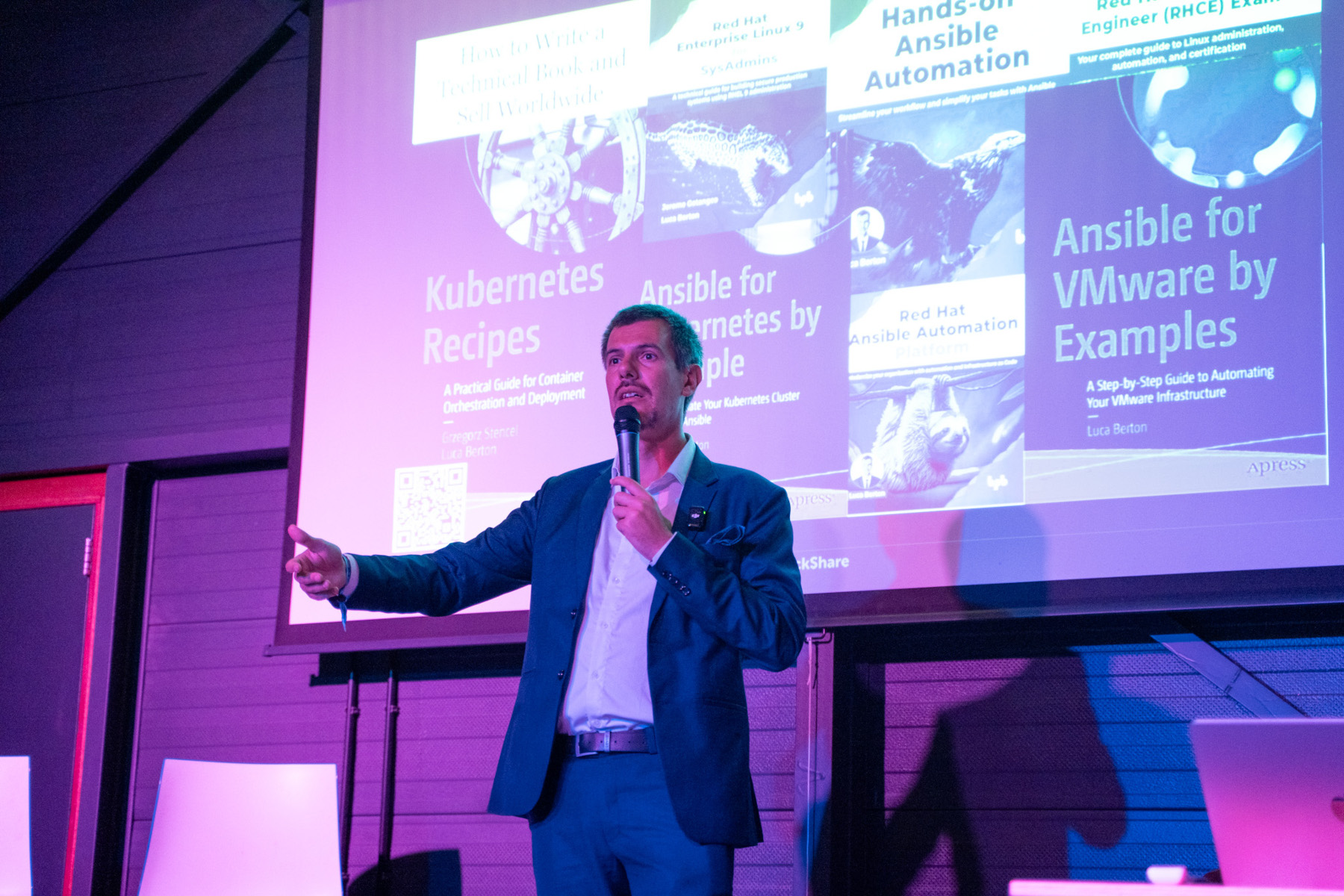
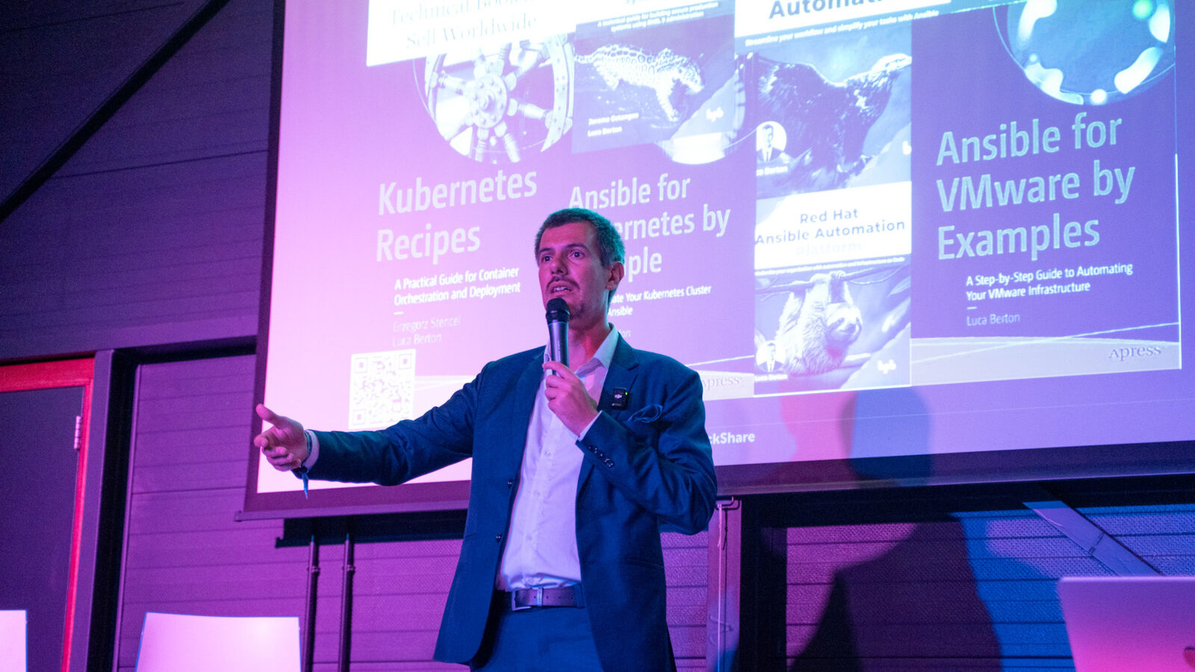
perf(lighthouse): self-host CDN scripts, optimize hero images, fix contrast
- Self-host cookieconsent@3.1.0 and web-vitals@4 to satisfy edge CSP
  (cookie consent banner was broken in production due to CSP blocking
  cdn.jsdelivr.net). Now loaded from /scripts/ via 'self'.
- FikaWorksDay2025.jpg: crop centered to true 16:9 (1600x900) and
  re-encode at q82 (540KB -> 254KB). Fixes Lighthouse aspect-ratio
  mismatch warning and improperly-sized-images.
- luca-hero.jpg: downscale from 1714x2400 to 800x1120 (332KB -> 161KB).
- hero-stage-1/2.jpg: re-encode + add .webp variants for CSS bg.
- Update hero.astro to reference .webp background-images.
- Bump text-gray-400 to text-gray-600 on light backgrounds
  (features service duration, logos sponsor names, pricing plan names).
- Add <link rel=preconnect> for www.google-analytics.com.
- Drop cdn.jsdelivr.net from static/_headers script-src; add 'self'
  to frame-src for Partytown sandbox iframe.
- Add scripts/optimize-hero-images.sh for reproducible re-encoding.
- gitignore .img-originals/ backup folder.

Lighthouse desktop baseline before this commit: P86 A96 BP70 SEO92.
Cloudflare-side follow-ups (not fixable in repo): disable AI Audit
Content-Signal robots.txt injection; remove cdn.jsdelivr.net allowance
from edge CSP transform rule; remove Cloudflare Insights beacon or
add static.cloudflareinsights.com to script-src.

diff --git a/static/scripts/cookieconsent.umd.js b/static/scripts/cookieconsent.umd.js
@@ -1,0 +1,7 @@
+/*!
+* CookieConsent 3.1.0
+* https://github.com/orestbida/cookieconsent
+* Author Orest Bida
+* Released under the MIT License
+*/
+var e,t;e=this,t=function(e){'use strict';const t='opt-in',o='opt-out',n='show--consent',s='show--preferences',a='disable--interaction',c='data-category',r='div',i='button',l='aria-hidden',d='btn-group',f='click',_='data-role',u='consentModal',p='preferencesModal';class g{constructor(){this.t={mode:t,revision:0,autoShow:!0,lazyHtmlGeneration:!0,autoClearCookies:!0,manageScriptTags:!0,hideFromBots:!0,cookie:{name:'cc_cookie',expiresAfterDays:182,domain:'',path:'/',secure:!0,sameSite:'Lax'}},this.o={i:{},l:'',_:{},u:{},p:{},m:[],v:!1,h:null,C:null,S:null,M:'',T:!0,D:!1,k:!1,A:!1,N:!1,H:[],V:!1,j:!0,I:[],L:!1,F:'',P:!1,O:[],R:[],B:[],$:[],G:!1,J:!1,U:!1,q:[],K:[],W:[],X:{},Y:{},Z:{},ee:{},te:{},oe:[]},this.ne={se:{},ae:{}},this.ce={},this.re={ie:'cc:onFirstConsent',le:'cc:onConsent',de:'cc:onChange',fe:'cc:onModalShow',_e:'cc:onModalHide',ue:'cc:onModalReady'}}}const m=new g,b=(e,t)=>e.indexOf(t),v=(e,t)=>-1!==b(e,t),y=e=>Array.isArray(e),h=e=>'string'==typeof e,C=e=>!!e&&'object'==typeof e&&!y(e),w=e=>'function'==typeof e,S=e=>Object.keys(e),x=e=>Array.from(new Set(e)),M=()=>document.activeElement,T=e=>e.preventDefault(),D=(e,t)=>e.querySelectorAll(t),k=e=>e.dispatchEvent(new Event('change')),E=e=>{const t=document.createElement(e);return e===i&&(t.type=e),t},A=(e,t,o)=>e.setAttribute(t,o),N=(e,t,o)=>{e.removeAttribute(o?'data-'+t:t)},H=(e,t,o)=>e.getAttribute(o?'data-'+t:t),V=(e,t)=>e.appendChild(t),j=(e,t)=>e.classList.add(t),I=(e,t)=>j(e,'cm__'+t),L=(e,t)=>j(e,'pm__'+t),F=(e,t)=>e.classList.remove(t),P=e=>{if('object'!=typeof e)return e;if(e instanceof Date)return new Date(e.getTime());let t=Array.isArray(e)?[]:{};for(let o in e){let n=e[o];t[o]=P(n)}return t},O=()=>{const e={},{O:t,X:o,Y:n}=m.o;for(const s of t)e[s]=G(n[s],S(o[s]));return e},R=(e,t)=>dispatchEvent(new CustomEvent(e,{detail:t})),B=(e,t,o,n)=>{e.addEventListener(t,o),n&&m.o.m.push({pe:e,ge:t,me:o})},$=()=>{const e=m.t.cookie.expiresAfterDays;return w(e)?e(m.o.F):e},G=(e,t)=>{const o=e||[],n=t||[];return o.filter((e=>!v(n,e))).concat(n.filter((e=>!v(o,e))))},J=e=>{m.o.R=x(e),m.o.F=(()=>{let e='custom';const{R:t,O:o,B:n}=m.o,s=t.length;return s===o.length?e='all':s===n.length&&(e='necessary'),e})()},U=(e,t,o,n)=>{const s='accept-',{show:a,showPreferences:c,hide:r,hidePreferences:i,acceptCategory:l}=t,d=e||document,_=e=>D(d,`[data-cc="${e}"]`),u=(e,t)=>{T(e),l(t),i(),r()},p=_('show-preferencesModal'),g=_('show-consentModal'),b=_(s+'all'),v=_(s+'necessary'),y=_(s+'custom'),h=m.t.lazyHtmlGeneration;for(const e of p)A(e,'aria-haspopup','dialog'),B(e,f,(e=>{T(e),c()})),h&&(B(e,'mouseenter',(e=>{T(e),m.o.N||o(t,n)}),!0),B(e,'focus',(()=>{m.o.N||o(t,n)})));for(let e of g)A(e,'aria-haspopup','dialog'),B(e,f,(e=>{T(e),a(!0)}),!0);for(let e of b)B(e,f,(e=>{u(e,'all')}),!0);for(let e of y)B(e,f,(e=>{u(e)}),!0);for(let e of v)B(e,f,(e=>{u(e,[])}),!0)},z=(e,t)=>{e&&(t&&(e.tabIndex=-1),e.focus(),t&&e.removeAttribute('tabindex'))},q=(e,t)=>{const o=n=>{n.target.removeEventListener('transitionend',o),'opacity'===n.propertyName&&'1'===getComputedStyle(e).opacity&&z((e=>1===e?m.ne.be:m.ne.ve)(t))};B(e,'transitionend',o)};let K;const Q=e=>{clearTimeout(K),e?j(m.ne.ye,a):K=setTimeout((()=>{F(m.ne.ye,a)}),500)},W=['M 19.5 4.5 L 4.5 19.5 M 4.5 4.501 L 19.5 19.5','M 3.572 13.406 L 8.281 18.115 L 20.428 5.885','M 21.999 6.94 L 11.639 17.18 L 2.001 6.82 '],X=(e=0,t=1.5)=>`<svg viewBox="0 0 24 24" stroke-width="${t}"><path d="${W[e]}"/></svg>`,Y=e=>{const t=m.ne,o=m.o;(e=>{const n=e===t.he,s=o.i.disablePageInteraction?t.ye:n?t.Ce:t.ye;B(s,'keydown',(t=>{if('Tab'!==t.key||!(n?o.k&&!o.A:o.A))return;const s=M(),a=n?o.q:o.K;0!==a.length&&(t.shiftKey?s!==a[0]&&e.contains(s)||(T(t),z(a[1])):s!==a[1]&&e.contains(s)||(T(t),z(a[0])))}),!0)})(e)},Z=['[href]',i,'input','details','[tabindex]'].map((e=>e+':not([tabindex="-1"])')).join(','),ee=e=>{const{o:t,ne:o}=m,n=(e,t)=>{const o=D(e,Z);t[0]=o[0],t[1]=o[o.length-1]};1===e&&t.D&&n(o.he,t.q),2===e&&t.N&&n(o.we,t.K)},te=(e,t,o)=>{const{de:n,le:s,ie:a,_e:c,ue:r,fe:i}=m.ce,l=m.re;if(t){const n={modalName:t};return e===l.fe?w(i)&&i(n):e===l._e?w(c)&&c(n):(n.modal=o,w(r)&&r(n)),R(e,n)}const d={cookie:m.o.p};e===l.ie?w(a)&&a(P(d)):e===l.le?w(s)&&s(P(d)):(d.changedCategories=m.o.I,d.changedServices=m.o.ee,w(n)&&n(P(d))),R(e,P(d))},oe=(e,t)=>{try{return e()}catch(e){return!t&&console.warn('CookieConsent:',e),!1}},ne=e=>{const{Y:t,ee:o,O:n,X:s,oe:a,p:r,I:i}=m.o;for(const e of n){const n=o[e]||t[e]||[];for(const o of n){const n=s[e][o];if(!n)continue;const{onAccept:a,onReject:c}=n;!n.Se&&v(t[e],o)?(n.Se=!0,w(a)&&a()):n.Se&&!v(t[e],o)&&(n.Se=!1,w(c)&&c())}}if(!m.t.manageScriptTags)return;const l=a,d=e||r.categories||[],f=(e,n)=>{if(n>=e.length)return;const s=a[n];if(s.xe)return f(e,n+1);const r=s.Me,l=s.Te,_=s.De,u=v(d,l),p=!!_&&v(t[l],_);if(!_&&!s.ke&&u||!_&&s.ke&&!u&&v(i,l)||_&&!s.ke&&p||_&&s.ke&&!p&&v(o[l]||[],_)){s.xe=!0;const t=H(r,'type',!0);N(r,'type',!!t),N(r,c);let o=H(r,'src',!0);o&&N(r,'src',!0);const a=E('script');a.textContent=r.innerHTML;for(const{nodeName:e}of r.attributes)A(a,e,r[e]||H(r,e));t&&(a.type=t),o?a.src=o:o=r.src;const i=!!o&&(!t||['text/javascript','module'].includes(t));if(i&&(a.onload=a.onerror=()=>{f(e,++n)}),r.replaceWith(a),i)return}f(e,++n)};f(l,0)},se='bottom',ae='left',ce='center',re='right',ie='inline',le='wide',de='pm--',fe=['middle','top',se],_e=[ae,ce,re],ue={box:{Ee:[le,ie],Ae:fe,Ne:_e,He:se,Ve:re},cloud:{Ee:[ie],Ae:fe,Ne:_e,He:se,Ve:ce},bar:{Ee:[ie],Ae:fe.slice(1),Ne:[],He:se,Ve:''}},pe={box:{Ee:[],Ae:[],Ne:[],He:'',Ve:''},bar:{Ee:[le],Ae:[],Ne:[ae,re],He:'',Ve:ae}},ge=e=>{const t=m.o.i.guiOptions,o=t&&t.consentModal,n=t&&t.preferencesModal;0===e&&me(m.ne.he,ue,o,'cm--','box','cm'),1===e&&me(m.ne.we,pe,n,de,'box','pm')},me=(e,t,o,n,s,a)=>{e.className=a;const c=o&&o.layout,r=o&&o.position,i=o&&o.flipButtons,l=!o||!1!==o.equalWeightButtons,d=c&&c.split(' ')||[],f=d[0],_=d[1],u=f in t?f:s,p=t[u],g=v(p.Ee,_)&&_,b=r&&r.split(' ')||[],y=b[0],h=n===de?b[0]:b[1],C=v(p.Ae,y)?y:p.He,w=v(p.Ne,h)?h:p.Ve,S=t=>{t&&j(e,n+t)};S(u),S(g),S(C),S(w),i&&S('flip');const x=a+'__btn--secondary';if('cm'===a){const{je:e,Ie:t}=m.ne;e&&(l?F(e,x):j(e,x)),t&&(l?F(t,x):j(t,x))}else{const{Le:e}=m.ne;e&&(l?F(e,x):j(e,x))}},be=(e,t)=>{const o=m.o,n=m.ne,{hide:s,hidePreferences:a,acceptCategory:c}=e,u=e=>{c(e),a(),s()},g=o.u&&o.u.preferencesModal;if(!g)return;const b=g.title,v=g.closeIconLabel,y=g.acceptAllBtn,w=g.acceptNecessaryBtn,x=g.savePreferencesBtn,M=g.sections||[],T=y||w||x;if(n.Fe)n.Pe=E(r),L(n.Pe,'body');else{n.Fe=E(r),j(n.Fe,'pm-wrapper');const e=E('div');j(e,'pm-overlay'),V(n.Fe,e),B(e,f,a),n.we=E(r),j(n.we,'pm'),A(n.we,'role','dialog'),A(n.we,l,!0),A(n.we,'aria-modal',!0),A(n.we,'aria-labelledby','pm__title'),B(n.ye,'keydown',(e=>{27===e.keyCode&&a()}),!0),n.Oe=E(r),L(n.Oe,'header'),n.Re=E('h2'),L(n.Re,'title'),n.Re.id='pm__title',n.Be=E(i),L(n.Be,'close-btn'),A(n.Be,'aria-label',g.closeIconLabel||''),B(n.Be,f,a),n.$e=E('span'),n.$e.innerHTML=X(),V(n.Be,n.$e),n.Ge=E(r),L(n.Ge,'body'),n.Je=E(r),L(n.Je,'footer');var D=E(r);j(D,'btns');var k=E(r),N=E(r);L(k,d),L(N,d),V(n.Je,k),V(n.Je,N),V(n.Oe,n.Re),V(n.Oe,n.Be),n.ve=E(r),A(n.ve,'tabIndex',-1),V(n.we,n.ve),V(n.we,n.Oe),V(n.we,n.Ge),T&&V(n.we,n.Je),V(n.Fe,n.we)}let H;b&&(n.Re.innerHTML=b,v&&A(n.Be,'aria-label',v)),M.forEach(((e,t)=>{const s=e.title,a=e.description,c=e.linkedCategory,d=c&&o.P[c],_=e.cookieTable,u=_&&_.body,p=_&&_.caption,m=u&&u.length>0,b=!!d,v=b&&o.X[c],y=C(v)&&S(v)||[],w=b&&(!!a||!!m||S(v).length>0);var x=E(r);if(L(x,'section'),w||a){var M=E(r);L(M,'section-desc-wrapper')}let T=y.length;if(w&&T>0){const e=E(r);L(e,'section-services');for(const t of y){const o=v[t],n=o&&o.label||t,s=E(r),a=E(r),i=E(r),l=E(r);L(s,'service'),L(l,'service-title'),L(a,'service-header'),L(i,'service-icon');const f=ve(n,t,d,!0,c);l.innerHTML=n,V(a,i),V(a,l),V(s,a),V(s,f),V(e,s)}V(M,e)}if(s){var D=E(r),k=E(b?i:r);if(L(D,'section-title-wrapper'),L(k,'section-title'),k.innerHTML=s,V(D,k),b){const e=E('span');e.innerHTML=X(2,3.5),L(e,'section-arrow'),V(D,e),x.className+='--toggle';const t=ve(s,c,d);let o=g.serviceCounterLabel;if(T>0&&h(o)){let e=E('span');L(e,'badge'),L(e,'service-counter'),A(e,l,!0),A(e,'data-servicecounter',T),o&&(o=o.split('|'),o=o.length>1&&T>1?o[1]:o[0],A(e,'data-counterlabel',o)),e.innerHTML=T+(o?' '+o:''),V(k,e)}if(w){L(x,'section--expandable');var N=c+'-desc';A(k,'aria-expanded',!1),A(k,'aria-controls',N)}V(D,t)}else A(k,'role','heading'),A(k,'aria-level','3');V(x,D)}if(a){var I=E('p');L(I,'section-desc'),I.innerHTML=a,V(M,I)}if(w&&(A(M,l,'true'),M.id=N,((e,t,o)=>{B(k,f,(()=>{t.classList.contains('is-expanded')?(F(t,'is-expanded'),A(o,'aria-expanded','false'),A(e,l,'true')):(j(t,'is-expanded'),A(o,'aria-expanded','true'),A(e,l,'false'))}))})(M,x,k),m)){const e=E('table'),o=E('thead'),s=E('tbody');if(p){const t=E('caption');L(t,'table-caption'),t.innerHTML=p,e.appendChild(t)}L(e,'section-table'),L(o,'table-head'),L(s,'table-body');const a=_.headers,c=S(a),i=n.Ue.createDocumentFragment(),l=E('tr');for(const e of c){const o=a[e],n=E('th');n.id='cc__row-'+o+t,A(n,'scope','col'),L(n,'table-th'),n.innerHTML=o,V(i,n)}V(l,i),V(o,l);const d=n.Ue.createDocumentFragment();for(const e of u){const o=E('tr');L(o,'table-tr');for(const n of c){const s=a[n],c=e[n],i=E('td'),l=E(r);L(i,'table-td'),A(i,'data-column',s),A(i,'headers','cc__row-'+s+t),l.insertAdjacentHTML('beforeend',c),V(i,l),V(o,i)}V(d,o)}V(s,d),V(e,o),V(e,s),V(M,e)}(w||a)&&V(x,M);const P=n.Pe||n.Ge;b?(H||(H=E(r),L(H,'section-toggles')),H.appendChild(x)):H=null,V(P,H||x)})),y&&(n.ze||(n.ze=E(i),L(n.ze,'btn'),A(n.ze,_,'all'),V(k,n.ze),B(n.ze,f,(()=>u('all')))),n.ze.innerHTML=y),w&&(n.Le||(n.Le=E(i),L(n.Le,'btn'),A(n.Le,_,'necessary'),V(k,n.Le),B(n.Le,f,(()=>u([])))),n.Le.innerHTML=w),x&&(n.qe||(n.qe=E(i),L(n.qe,'btn'),L(n.qe,'btn--secondary'),A(n.qe,_,'save'),V(N,n.qe),B(n.qe,f,(()=>u()))),n.qe.innerHTML=x),n.Pe&&(n.we.replaceChild(n.Pe,n.Ge),n.Ge=n.Pe),ge(1),o.N||(o.N=!0,te(m.re.ue,p,n.we),t(e),V(n.Ce,n.Fe),Y(n.we),setTimeout((()=>j(n.Fe,'cc--anim')),100)),ee(2)};function ve(e,t,o,n,s){const a=m.o,r=m.ne,i=E('label'),d=E('input'),_=E('span'),u=E('span'),p=E('span'),g=E('span'),b=E('span');if(g.innerHTML=X(1,3),b.innerHTML=X(0,3),d.type='checkbox',j(i,'section__toggle-wrapper'),j(d,'section__toggle'),j(g,'toggle__icon-on'),j(b,'toggle__icon-off'),j(_,'toggle__icon'),j(u,'toggle__icon-circle'),j(p,'toggle__label'),A(_,l,'true'),n?(j(i,'toggle-service'),A(d,c,s),r.ae[s][t]=d):r.se[t]=d,n?(e=>{B(d,'change',(()=>{const t=r.ae[e],o=r.se[e];a.Z[e]=[];for(let o in t){const n=t[o];n.checked&&a.Z[e].push(n.value)}o.checked=a.Z[e].length>0}))})(s):(e=>{B(d,f,(()=>{const t=r.ae[e],o=d.checked;a.Z[e]=[];for(let n in t)t[n].checked=o,o&&a.Z[e].push(n)}))})(t),d.value=t,p.textContent=e.replace(/<.*>.*<\/.*>/gm,''),V(u,b),V(u,g),V(_,u),a.T)(o.readOnly||o.enabled)&&(d.checked=!0);else if(n){const e=a.Y[s];d.checked=o.readOnly||v(e,t)}else v(a.R,t)&&(d.checked=!0);return o.readOnly&&(d.disabled=!0),V(i,d),V(i,_),V(i,p),i}const ye=()=>{const e=E('span');return m.ne.Ke||(m.ne.Ke=e),e},he=(e,t)=>{const o=m.o,n=m.ne,{hide:s,showPreferences:a,acceptCategory:c}=e,p=o.u&&o.u.consentModal;if(!p)return;const g=p.acceptAllBtn,b=p.acceptNecessaryBtn,v=p.showPreferencesBtn,y=p.closeIconLabel,h=p.footer,C=p.label,w=p.title,S=e=>{s(),c(e)};if(!n.Qe){n.Qe=E(r),n.he=E(r),n.We=E(r),n.Xe=E(r),n.Ye=E(r),j(n.Qe,'cm-wrapper'),j(n.he,'cm'),I(n.We,'body'),I(n.Xe,'texts'),I(n.Ye,'btns'),A(n.he,'role','dialog'),A(n.he,'aria-modal','true'),A(n.he,l,'false'),A(n.he,'aria-describedby','cm__desc'),C?A(n.he,'aria-label',C):w&&A(n.he,'aria-labelledby','cm__title');const e='box',t=o.i.guiOptions,s=t&&t.consentModal,a=(s&&s.layout||e).split(' ')[0]===e;w&&y&&a&&(n.Ie||(n.Ie=E(i),n.Ie.innerHTML=X(),I(n.Ie,'btn'),I(n.Ie,'btn--close'),B(n.Ie,f,(()=>{S([])})),V(n.We,n.Ie)),A(n.Ie,'aria-label',y)),V(n.We,n.Xe),(g||b||v)&&V(n.We,n.Ye),n.be=E(r),A(n.be,'tabIndex',-1),V(n.he,n.be),V(n.he,n.We),V(n.Qe,n.he)}w&&(n.Ze||(n.Ze=E('h2'),n.Ze.className=n.Ze.id='cm__title',V(n.Xe,n.Ze)),n.Ze.innerHTML=w);let x=p.description;if(x&&(o.V&&(x=x.replace('{{revisionMessage}}',o.j?'':p.revisionMessage||'')),n.et||(n.et=E('p'),n.et.className=n.et.id='cm__desc',V(n.Xe,n.et)),n.et.innerHTML=x),g&&(n.tt||(n.tt=E(i),V(n.tt,ye()),I(n.tt,'btn'),A(n.tt,_,'all'),B(n.tt,f,(()=>{S('all')}))),n.tt.firstElementChild.innerHTML=g),b&&(n.je||(n.je=E(i),V(n.je,ye()),I(n.je,'btn'),A(n.je,_,'necessary'),B(n.je,f,(()=>{S([])}))),n.je.firstElementChild.innerHTML=b),v&&(n.ot||(n.ot=E(i),V(n.ot,ye()),I(n.ot,'btn'),I(n.ot,'btn--secondary'),A(n.ot,_,'show'),B(n.ot,'mouseenter',(()=>{o.N||be(e,t)})),B(n.ot,f,a)),n.ot.firstElementChild.innerHTML=v),n.nt||(n.nt=E(r),I(n.nt,d),g&&V(n.nt,n.tt),b&&V(n.nt,n.je),(g||b)&&V(n.We,n.nt),V(n.Ye,n.nt)),n.ot&&!n.st&&(n.st=E(r),n.je&&n.tt?(I(n.st,d),V(n.st,n.ot),V(n.Ye,n.st)):(V(n.nt,n.ot),I(n.nt,d+'--uneven'))),h){if(!n.ct){let e=E(r),t=E(r);n.ct=E(r),I(e,'footer'),I(t,'links'),I(n.ct,'link-group'),V(t,n.ct),V(e,t),V(n.he,e)}n.ct.innerHTML=h}ge(0),o.D||(o.D=!0,te(m.re.ue,u,n.he),t(e),V(n.Ce,n.Qe),Y(n.he),setTimeout((()=>j(n.Qe,'cc--anim')),100)),ee(1),U(n.We,e,be,t)},Ce=e=>{if(!h(e))return null;if(e in m.o._)return e;let t=e.slice(0,2);return t in m.o._?t:null},we=()=>m.o.l||m.o.i.language.default,Se=e=>{e&&(m.o.l=e)},xe=async e=>{const t=m.o;let o=Ce(e)?e:we(),n=t._[o];if(h(n)?n=await(async e=>{try{const t=await fetch(e);return await t.json()}catch(e){return console.error(e),!1}})(n):w(n)&&(n=await n()),!n)throw`Could not load translation for the '${o}' language`;return t.u=n,Se(o),!0},Me=()=>{let e=m.o.i.language.rtl,t=m.ne.Ce;e&&t&&(y(e)||(e=[e]),v(e,m.o.l)?j(t,'cc--rtl'):F(t,'cc--rtl'))},Te=()=>{const e=m.ne;if(e.Ce)return;e.Ce=E(r),e.Ce.id='cc-main',e.Ce.setAttribute('data-nosnippet',''),Me();let t=m.o.i.root;t&&h(t)&&(t=document.querySelector(t)),(t||e.Ue.body).appendChild(e.Ce)},De=e=>oe((()=>localStorage.removeItem(e))),ke=(e,t)=>{if(t instanceof RegExp)return e.filter((e=>t.test(e)));{const o=b(e,t);return o>-1?[e[o]]:[]}},Ee=e=>{const{hostname:t,protocol:o}=location,{name:n,path:s,domain:a,sameSite:c,useLocalStorage:r,secure:i}=m.t.cookie,l=e?(()=>{const e=m.o.S,t=e?new Date-e:0;return 864e5*$()-t})():864e5*$(),d=new Date;d.setTime(d.getTime()+l),m.o.p.expirationTime=d.getTime();const f=JSON.stringify(m.o.p);let _=n+'='+encodeURIComponent(f)+(0!==l?'; expires='+d.toUTCString():'')+'; Path='+s+'; SameSite='+c;v(t,'.')&&(_+='; Domain='+a),i&&'https:'===o&&(_+='; Secure'),r?((e,t)=>{oe((()=>localStorage.setItem(e,t)))})(n,f):document.cookie=_,m.o.p},Ae=(e,t,o)=>{if(0===e.length)return;const n=o||m.t.cookie.domain,s=t||m.t.cookie.path,a='www.'===n.slice(0,4),c=a&&n.substring(4),r=(e,t)=>{t&&'.'!==t.slice(0,1)&&(t='.'+t),document.cookie=e+'=; path='+s+(t?'; domain='+t:'')+'; expires=Thu, 01 Jan 1970 00:00:01 GMT;'};for(const t of e)r(t,o),o||r(t,n),a&&r(t,c)},Ne=e=>{const t=e||m.t.cookie.name,o=m.t.cookie.useLocalStorage;return((e,t)=>{let o;return o=oe((()=>JSON.parse(t?e:decodeURIComponent(e))),!0)||{},o})(o?(n=t,oe((()=>localStorage.getItem(n)))||''):He(t,!0),o);var n},He=(e,t)=>{const o=document.cookie.match('(^|;)\\s*'+e+'\\s*=\\s*([^;]+)');return o?t?o.pop():e:''},Ve=e=>{const t=document.cookie.split(/;\s*/),o=[];for(const n of t){let t=n.split('=')[0];e?oe((()=>{e.test(t)&&o.push(t)})):o.push(t)}return o},je=(e,n=[])=>{((e,t)=>{const{O:o,R:n,B:s,N:a,Z:c,$:r,X:i}=m.o;let l=[];if(e){y(e)?l.push(...e):h(e)&&(l='all'===e?o:[e]);for(const e of o)c[e]=v(l,e)?S(i[e]):[]}else l=[...n,...r],a&&(l=(()=>{const e=m.ne.se;if(!e)return[];let t=[];for(let o in e)e[o].checked&&t.push(o);return t})());l=l.filter((e=>!v(o,e)||!v(t,e))),l.push(...s),J(l)})(e,n),(()=>{const e=m.o,{Z:t,B:o,Y:n,X:s,O:a}=e,c=a;e.te=P(n);for(const a of c){const c=s[a],r=S(c),i=t[a]&&t[a].length>0,l=v(o,a);if(0!==r.length){if(n[a]=[],l)n[a].push(...r);else if(i){const e=t[a];n[a].push(...e)}else n[a]=e.Z[a];n[a]=x(n[a])}}})(),(()=>{const e=m.o;e.I=m.t.mode===o&&e.T?G(e.$,e.R):G(e.R,e.p.categories);let n=e.I.length>0,s=!1;for(const t of e.O)e.ee[t]=G(e.Y[t],e.te[t]),e.ee[t].length>0&&(s=!0);const a=m.ne.se;for(const t in a)a[t].checked=v(e.R,t);for(const t of e.O){const o=m.ne.ae[t],n=e.Y[t];for(const e in o)o[e].checked=v(n,e)}e.C||(e.C=new Date),e.M||(e.M=([1e7]+-1e3+-4e3+-8e3+-1e11).replace(/[018]/g,(e=>(e^crypto.getRandomValues(new Uint8Array(1))[0]&15>>e/4).toString(16)))),e.p={categories:P(e.R),revision:m.t.revision,data:e.h,consentTimestamp:e.C.toISOString(),consentId:e.M,services:P(e.Y),languageCode:m.o.l},e.S&&(e.p.lastConsentTimestamp=e.S.toISOString());let c=!1;const r=n||s;(e.T||r)&&(e.T&&(e.T=!1,c=!0),e.S=e.S?new Date:e.C,e.p.lastConsentTimestamp=e.S.toISOString(),Ee(),m.t.autoClearCookies&&(c||r)&&(e=>{const t=m.o,o=Ve(),n=(e=>{const t=m.o;return(e?t.O:t.I).filter((e=>{const o=t.P[e];return!!o&&!o.readOnly&&!!o.autoClear}))})(e);for(const e in t.ee)for(const n of t.ee[e]){const s=t.X[e][n].cookies;if(!v(t.Y[e],n)&&s)for(const e of s){const t=ke(o,e.name);Ae(t,e.path,e.domain)}}for(const s of n){const n=t.P[s].autoClear,a=n&&n.cookies||[],c=v(t.I,s),r=!v(t.R,s),i=c&&r;if(e?r:i){n.reloadPage&&i&&(t.L=!0);for(const e of a){const t=ke(o,e.name);Ae(t,e.path,e.domain)}}}})(c),ne()),c&&(te(m.re.ie),te(m.re.le),m.t.mode===t)||(r&&te(m.re.de),e.L&&(e.L=!1,location.reload()))})()},Ie=e=>{const t=m.o.T?[]:m.o.R;return v(t,e)},Le=(e,t)=>{const o=m.o.T?[]:m.o.Y[t]||[];return v(o,e)},Fe=(e,t,o)=>{let n=[];const s=e=>{if(h(e)){let t=He(e);''!==t&&n.push(t)}else n.push(...Ve(e))};if(y(e))for(let t of e)s(t);else s(e);Ae(n,t,o)},Pe=e=>{const{ne:t,o:o}=m;if(!o.k){if(!o.D){if(!e)return;he($e,Te)}o.k=!0,o.J=M(),o.v&&Q(!0),q(t.he,1),j(t.ye,n),A(t.he,l,'false'),setTimeout((()=>{z(m.ne.be)}),100),te(m.re.fe,u)}},Oe=()=>{const{ne:e,o:t,re:o}=m;t.k&&(t.k=!1,t.v&&Q(),z(e.Ke,!0),F(e.ye,n),A(e.he,l,'true'),z(t.J),t.J=null,te(o._e,u))},Re=()=>{const e=m.o;e.A||(e.N||be($e,Te),e.A=!0,e.k?e.U=M():e.J=M(),q(m.ne.we,2),j(m.ne.ye,s),A(m.ne.we,l,'false'),setTimeout((()=>{z(m.ne.ve)}),100),te(m.re.fe,p))},Be=()=>{const e=m.o;e.A&&(e.A=!1,(()=>{const e=Je(),t=m.o.P,o=m.ne.se,n=m.ne.ae,s=e=>v(m.o.$,e);for(const a in o){const c=!!t[a].readOnly;o[a].checked=c||(e?Ie(a):s(a));for(const t in n[a])n[a][t].checked=c||(e?Le(t,a):s(a))}})(),z(m.ne.$e,!0),F(m.ne.ye,s),A(m.ne.we,l,'true'),e.k?(z(e.U),e.U=null):(z(e.J),e.J=null),te(m.re._e,p))};var $e={show:Pe,hide:Oe,showPreferences:Re,hidePreferences:Be,acceptCategory:je};const Ge=(e,t)=>{const o=Ne(t);return e?o[e]:o},Je=()=>!m.o.T;e.acceptCategory=je,e.acceptService=(e,t)=>{const{O:o,X:n}=m.o;if(!(e&&t&&h(t)&&v(o,t)&&0!==S(n[t]).length))return!1;((e,t)=>{const o=m.o,{X:n,Z:s,N:a}=o,c=m.ne.ae[t]||{},r=m.ne.se[t]||{},i=S(n[t]);if(s[t]=[],h(e)){if('all'===e){if(s[t].push(...i),a)for(let e in c)c[e].checked=!0,k(c[e])}else if(v(i,e)&&s[t].push(e),a)for(let t in c)c[t].checked=e===t,k(c[t])}else if(y(e))for(let o of i){const n=v(e,o);n&&s[t].push(o),a&&(c[o].checked=n,k(c[o]))}const l=0===s[t].length;o.R=l?o.R.filter((e=>e!==t)):x([...o.R,t]),a&&(r.checked=!l,k(r))})(e,t),je()},e.acceptedCategory=Ie,e.acceptedService=Le,e.eraseCookies=Fe,e.getConfig=e=>{const t=m.t,o=m.o.i;return e?t[e]||o[e]:{...t,...o,cookie:{...t.cookie}}},e.getCookie=Ge,e.getUserPreferences=()=>{const{F:e,Y:t}=m.o,{accepted:o,rejected:n}=(()=>{const{T:e,R:t,O:o}=m.o;return{accepted:t,rejected:e?[]:o.filter((e=>!v(t,e)))}})();return P({acceptType:e,acceptedCategories:o,rejectedCategories:n,acceptedServices:t,rejectedServices:O()})},e.hide=Oe,e.hidePreferences=Be,e.loadScript=(e,t)=>{let o=document.querySelector('script[src="'+e+'"]');return new Promise((n=>{if(o)return n(!0);if(o=E('script'),C(t))for(const e in t)A(o,e,t[e]);o.onload=()=>n(!0),o.onerror=()=>{o.remove(),n(!1)},o.src=e,V(document.head,o)}))},e.reset=e=>{const{Ce:t,ye:o}=m.ne,{name:c,path:r,domain:i,useLocalStorage:l}=m.t.cookie;e&&(l?De(c):Fe(c,r,i));for(const{pe:e,ge:t,me:o}of m.o.m)e.removeEventListener(t,o);t&&t.remove(),o&&o.classList.remove(a,s,n);const d=new g;for(const e in m)m[e]=d[e];window._ccRun=!1},e.run=async e=>{const{o:t,t:n,re:s}=m,a=window;if(!a._ccRun){if(a._ccRun=!0,(e=>{const{ne:t,t:n,o:s}=m,a=n,r=s,{cookie:i}=a,l=m.ce,d=e.cookie,f=e.categories,_=S(f)||[],u=navigator,p=document;t.Ue=p,t.ye=p.documentElement,i.domain=location.hostname,r.i=e,r.P=f,r.O=_,r._=e.language.translations,r.v=!!e.disablePageInteraction,l.ie=e.onFirstConsent,l.le=e.onConsent,l.de=e.onChange,l._e=e.onModalHide,l.fe=e.onModalShow,l.ue=e.onModalReady;const{mode:g,autoShow:b,lazyHtmlGeneration:y,autoClearCookies:h,revision:w,manageScriptTags:x,hideFromBots:M}=e;g===o&&(a.mode=g),'boolean'==typeof h&&(a.autoClearCookies=h),'boolean'==typeof x&&(a.manageScriptTags=x),'number'==typeof w&&w>=0&&(a.revision=w,r.V=!0),'boolean'==typeof b&&(a.autoShow=b),'boolean'==typeof y&&(a.lazyHtmlGeneration=y),!1===M&&(a.hideFromBots=!1),!0===a.hideFromBots&&u&&(r.G=u.userAgent&&/bot|crawl|spider|slurp|teoma/i.test(u.userAgent)||u.webdriver),C(d)&&(a.cookie={...i,...d}),a.autoClearCookies,r.V,a.manageScriptTags,(e=>{const{P:t,X:o,Y:n,Z:s,B:a}=m.o;for(let c of e){const e=t[c],r=e.services||{},i=C(r)&&S(r)||[];o[c]={},n[c]=[],s[c]=[],e.readOnly&&(a.push(c),n[c]=i),m.ne.ae[c]={};for(let e of i){const t=r[e];t.Se=!1,o[c][e]=t}}})(_),(()=>{if(!m.t.manageScriptTags)return;const e=m.o,t=D(document,'script['+c+']');for(const o of t){let t=H(o,c),n=o.dataset.service||'',s=!1;if(t&&'!'===t.charAt(0)&&(t=t.slice(1),s=!0),'!'===n.charAt(0)&&(n=n.slice(1),s=!0),v(e.O,t)&&(e.oe.push({Me:o,xe:!1,ke:s,Te:t,De:n}),n)){const o=e.X[t];o[n]||(o[n]={Se:!1})}}})(),Se((()=>{const e=m.o.i.language.autoDetect;if(e){const t={browser:navigator.language,document:document.documentElement.lang},o=Ce(t[e]);if(o)return o}return we()})())})(e),t.G)return;(()=>{const e=m.o,t=m.t,n=Ne(),{categories:s,services:a,consentId:c,consentTimestamp:r,lastConsentTimestamp:i,data:l,revision:d}=n,f=y(s);e.p=n,e.M=c;const _=!!c&&h(c);e.C=r,e.C&&(e.C=new Date(r)),e.S=i,e.S&&(e.S=new Date(i)),e.h=void 0!==l?l:null,e.V&&_&&d!==t.revision&&(e.j=!1),e.T=!(_&&e.j&&e.C&&e.S&&f),t.cookie.useLocalStorage&&!e.T&&(e.T=(new Date).getTime()>(n.expirationTime||0),e.T&&De(t.cookie.name)),e.T,(()=>{const e=m.o;for(const t of e.O){const n=e.P[t];if(n.readOnly||n.enabled){e.$.push(t);const n=e.X[t]||{};for(let s in n)e.Z[t].push(s),e.i.mode===o&&e.Y[t].push(s)}}})(),e.T?t.mode===o&&(e.R=[...e.$]):(e.Y={...e.Y,...a},e.Z={...e.Y},J([...e.B,...s]))})();const i=Je();if(!await xe())return!1;if(U(null,r=$e,be,Te),m.o.T&&he(r,Te),m.t.lazyHtmlGeneration||be(r,Te),n.autoShow&&!i&&Pe(!0),i)return ne(),te(s.le);n.mode===o&&ne(t.$)}var r},e.setCookieData=e=>{let t,o=e.value,n=e.mode,s=!1;const a=m.o;if('update'===n){a.h=t=Ge('data');const e=typeof t==typeof o;if(e&&'object'==typeof t){!t&&(t={});for(let e in o)t[e]!==o[e]&&(t[e]=o[e],s=!0)}else!e&&t||t===o||(t=o,s=!0)}else t=o,s=!0;return s&&(a.h=t,a.p.data=t,Ee(!0)),s},e.setLanguage=async(e,t)=>{if(!Ce(e))return!1;const o=m.o;return!(e===we()&&!0!==t||!await xe(e)||(Se(e),o.D&&he($e,Te),o.N&&be($e,Te),Me(),0))},e.show=Pe,e.showPreferences=Re,e.validConsent=Je,e.validCookie=e=>''!==He(e,!0)},'object'==typeof exports&&'undefined'!=typeof module?t(exports):'function'==typeof define&&define.amd?define(['exports'],t):t((e='undefined'!=typeof globalThis?globalThis:e||self).CookieConsent={});

diff --git a/static/scripts/web-vitals.attribution.js b/static/scripts/web-vitals.attribution.js
@@ -1,0 +1,1 @@
+var t,e,n=function(){var t=self.performance&&performance.getEntriesByType&&performance.getEntriesByType("navigation")[0];if(t&&t.responseStart>0&&t.responseStart<performance.now())return t},r=function(t){if("loading"===document.readyState)return"loading";var e=n();if(e){if(t<e.domInteractive)return"loading";if(0===e.domContentLoadedEventStart||t<e.domContentLoadedEventStart)return"dom-interactive";if(0===e.domComplete||t<e.domComplete)return"dom-content-loaded"}return"complete"},i=function(t){var e=t.nodeName;return 1===t.nodeType?e.toLowerCase():e.toUpperCase().replace(/^#/,"")},a=function(t,e){var n="";try{for(;t&&9!==t.nodeType;){var r=t,a=r.id?"#"+r.id:i(r)+(r.classList&&r.classList.value&&r.classList.value.trim()&&r.classList.value.trim().length?"."+r.classList.value.trim().replace(/\s+/g,"."):"");if(n.length+a.length>(e||100)-1)return n||a;if(n=n?a+">"+n:a,r.id)break;t=r.parentNode}}catch(t){}return n},o=-1,c=function(){return o},u=function(t){addEventListener("pageshow",(function(e){e.persisted&&(o=e.timeStamp,t(e))}),!0)},s=function(){var t=n();return t&&t.activationStart||0},f=function(t,e){var r=n(),i="navigate";c()>=0?i="back-forward-cache":r&&(document.prerendering||s()>0?i="prerender":document.wasDiscarded?i="restore":r.type&&(i=r.type.replace(/_/g,"-")));return{name:t,value:void 0===e?-1:e,rating:"good",delta:0,entries:[],id:"v4-".concat(Date.now(),"-").concat(Math.floor(8999999999999*Math.random())+1e12),navigationType:i}},d=function(t,e,n){try{if(PerformanceObserver.supportedEntryTypes.includes(t)){var r=new PerformanceObserver((function(t){Promise.resolve().then((function(){e(t.getEntries())}))}));return r.observe(Object.assign({type:t,buffered:!0},n||{})),r}}catch(t){}},l=function(t,e,n,r){var i,a;return function(o){e.value>=0&&(o||r)&&((a=e.value-(i||0))||void 0===i)&&(i=e.value,e.delta=a,e.rating=function(t,e){return t>e[1]?"poor":t>e[0]?"needs-improvement":"good"}(e.value,n),t(e))}},m=function(t){requestAnimationFrame((function(){return requestAnimationFrame((function(){return t()}))}))},p=function(t){document.addEventListener("visibilitychange",(function(){"hidden"===document.visibilityState&&t()}))},v=function(t){var e=!1;return function(){e||(t(),e=!0)}},g=-1,h=function(){return"hidden"!==document.visibilityState||document.prerendering?1/0:0},T=function(t){"hidden"===document.visibilityState&&g>-1&&(g="visibilitychange"===t.type?t.timeStamp:0,E())},y=function(){addEventListener("visibilitychange",T,!0),addEventListener("prerenderingchange",T,!0)},E=function(){removeEventListener("visibilitychange",T,!0),removeEventListener("prerenderingchange",T,!0)},S=function(){return g<0&&(g=h(),y(),u((function(){setTimeout((function(){g=h(),y()}),0)}))),{get firstHiddenTime(){return g}}},b=function(t){document.prerendering?addEventListener("prerenderingchange",(function(){return t()}),!0):t()},L=[1800,3e3],C=function(t,e){e=e||{},b((function(){var n,r=S(),i=f("FCP"),a=d("paint",(function(t){t.forEach((function(t){"first-contentful-paint"===t.name&&(a.disconnect(),t.startTime<r.firstHiddenTime&&(i.value=Math.max(t.startTime-s(),0),i.entries.push(t),n(!0)))}))}));a&&(n=l(t,i,L,e.reportAllChanges),u((function(r){i=f("FCP"),n=l(t,i,L,e.reportAllChanges),m((function(){i.value=performance.now()-r.timeStamp,n(!0)}))})))}))},M=[.1,.25],D=function(t,e){!function(t,e){e=e||{},C(v((function(){var n,r=f("CLS",0),i=0,a=[],o=function(t){t.forEach((function(t){if(!t.hadRecentInput){var e=a[0],n=a[a.length-1];i&&t.startTime-n.startTime<1e3&&t.startTime-e.startTime<5e3?(i+=t.value,a.push(t)):(i=t.value,a=[t])}})),i>r.value&&(r.value=i,r.entries=a,n())},c=d("layout-shift",o);c&&(n=l(t,r,M,e.reportAllChanges),p((function(){o(c.takeRecords()),n(!0)})),u((function(){i=0,r=f("CLS",0),n=l(t,r,M,e.reportAllChanges),m((function(){return n()}))})),setTimeout(n,0))})))}((function(e){var n=function(t){var e,n={};if(t.entries.length){var i=t.entries.reduce((function(t,e){return t&&t.value>e.value?t:e}));if(i&&i.sources&&i.sources.length){var o=(e=i.sources).find((function(t){return t.node&&1===t.node.nodeType}))||e[0];o&&(n={largestShiftTarget:a(o.node),largestShiftTime:i.startTime,largestShiftValue:i.value,largestShiftSource:o,largestShiftEntry:i,loadState:r(i.startTime)})}}return Object.assign(t,{attribution:n})}(e);t(n)}),e)},w=function(t,e){C((function(e){var i=function(t){var e={timeToFirstByte:0,firstByteToFCP:t.value,loadState:r(c())};if(t.entries.length){var i=n(),a=t.entries[t.entries.length-1];if(i){var o=i.activationStart||0,u=Math.max(0,i.responseStart-o);e={timeToFirstByte:u,firstByteToFCP:t.value-u,loadState:r(t.entries[0].startTime),navigationEntry:i,fcpEntry:a}}}return Object.assign(t,{attribution:e})}(e);t(i)}),e)},x=0,I=1/0,k=0,A=function(t){t.forEach((function(t){t.interactionId&&(I=Math.min(I,t.interactionId),k=Math.max(k,t.interactionId),x=k?(k-I)/7+1:0)}))},F=function(){return t?x:performance.interactionCount||0},P=function(){"interactionCount"in performance||t||(t=d("event",A,{type:"event",buffered:!0,durationThreshold:0}))},B=[],O=new Map,R=0,j=function(){var t=Math.min(B.length-1,Math.floor((F()-R)/50));return B[t]},q=[],H=function(t){if(q.forEach((function(e){return e(t)})),t.interactionId||"first-input"===t.entryType){var e=B[B.length-1],n=O.get(t.interactionId);if(n||B.length<10||t.duration>e.latency){if(n)t.duration>n.latency?(n.entries=[t],n.latency=t.duration):t.duration===n.latency&&t.startTime===n.entries[0].startTime&&n.entries.push(t);else{var r={id:t.interactionId,latency:t.duration,entries:[t]};O.set(r.id,r),B.push(r)}B.sort((function(t,e){return e.latency-t.latency})),B.length>10&&B.splice(10).forEach((function(t){return O.delete(t.id)}))}}},N=function(t){var e=self.requestIdleCallback||self.setTimeout,n=-1;return t=v(t),"hidden"===document.visibilityState?t():(n=e(t),p(t)),n},W=[200,500],z=function(t,e){"PerformanceEventTiming"in self&&"interactionId"in PerformanceEventTiming.prototype&&(e=e||{},b((function(){var n;P();var r,i=f("INP"),a=function(t){N((function(){t.forEach(H);var e=j();e&&e.latency!==i.value&&(i.value=e.latency,i.entries=e.entries,r())}))},o=d("event",a,{durationThreshold:null!==(n=e.durationThreshold)&&void 0!==n?n:40});r=l(t,i,W,e.reportAllChanges),o&&(o.observe({type:"first-input",buffered:!0}),p((function(){a(o.takeRecords()),r(!0)})),u((function(){R=F(),B.length=0,O.clear(),i=f("INP"),r=l(t,i,W,e.reportAllChanges)})))})))},U=[],V=[],_=0,G=new WeakMap,J=new Map,K=-1,Q=function(t){U=U.concat(t),X()},X=function(){K<0&&(K=N(Y))},Y=function(){J.size>10&&J.forEach((function(t,e){O.has(e)||J.delete(e)}));var t=B.map((function(t){return G.get(t.entries[0])})),e=V.length-50;V=V.filter((function(n,r){return r>=e||t.includes(n)}));for(var n=new Set,r=0;r<V.length;r++){var i=V[r];nt(i.startTime,i.processingEnd).forEach((function(t){n.add(t)}))}var a=U.length-1-50;U=U.filter((function(t,e){return t.startTime>_&&e>a||n.has(t)})),K=-1};q.push((function(t){t.interactionId&&t.target&&!J.has(t.interactionId)&&J.set(t.interactionId,t.target)}),(function(t){var e,n=t.startTime+t.duration;_=Math.max(_,t.processingEnd);for(var r=V.length-1;r>=0;r--){var i=V[r];if(Math.abs(n-i.renderTime)<=8){(e=i).startTime=Math.min(t.startTime,e.startTime),e.processingStart=Math.min(t.processingStart,e.processingStart),e.processingEnd=Math.max(t.processingEnd,e.processingEnd),e.entries.push(t);break}}e||(e={startTime:t.startTime,processingStart:t.processingStart,processingEnd:t.processingEnd,renderTime:n,entries:[t]},V.push(e)),(t.interactionId||"first-input"===t.entryType)&&G.set(t,e),X()}));var Z,$,tt,et,nt=function(t,e){for(var n,r=[],i=0;n=U[i];i++)if(!(n.startTime+n.duration<t)){if(n.startTime>e)break;r.push(n)}return r},rt=function(t,n){e||(e=d("long-animation-frame",Q)),z((function(e){var n=function(t){var e=t.entries[0],n=G.get(e),i=e.processingStart,o=n.processingEnd,c=n.entries.sort((function(t,e){return t.processingStart-e.processingStart})),u=nt(e.startTime,o),s=t.entries.find((function(t){return t.target})),f=s&&s.target||J.get(e.interactionId),d=[e.startTime+e.duration,o].concat(u.map((function(t){return t.startTime+t.duration}))),l=Math.max.apply(Math,d),m={interactionTarget:a(f),interactionTargetElement:f,interactionType:e.name.startsWith("key")?"keyboard":"pointer",interactionTime:e.startTime,nextPaintTime:l,processedEventEntries:c,longAnimationFrameEntries:u,inputDelay:i-e.startTime,processingDuration:o-i,presentationDelay:Math.max(l-o,0),loadState:r(e.startTime)};return Object.assign(t,{attribution:m})}(e);t(n)}),n)},it=[2500,4e3],at={},ot=function(t,e){!function(t,e){e=e||{},b((function(){var n,r=S(),i=f("LCP"),a=function(t){e.reportAllChanges||(t=t.slice(-1)),t.forEach((function(t){t.startTime<r.firstHiddenTime&&(i.value=Math.max(t.startTime-s(),0),i.entries=[t],n())}))},o=d("largest-contentful-paint",a);if(o){n=l(t,i,it,e.reportAllChanges);var c=v((function(){at[i.id]||(a(o.takeRecords()),o.disconnect(),at[i.id]=!0,n(!0))}));["keydown","click"].forEach((function(t){addEventListener(t,(function(){return N(c)}),{once:!0,capture:!0})})),p(c),u((function(r){i=f("LCP"),n=l(t,i,it,e.reportAllChanges),m((function(){i.value=performance.now()-r.timeStamp,at[i.id]=!0,n(!0)}))}))}}))}((function(e){var r=function(t){var e={timeToFirstByte:0,resourceLoadDelay:0,resourceLoadDuration:0,elementRenderDelay:t.value};if(t.entries.length){var r=n();if(r){var i=r.activationStart||0,o=t.entries[t.entries.length-1],c=o.url&&performance.getEntriesByType("resource").filter((function(t){return t.name===o.url}))[0],u=Math.max(0,r.responseStart-i),s=Math.max(u,c?(c.requestStart||c.startTime)-i:0),f=Math.max(s,c?c.responseEnd-i:0),d=Math.max(f,o.startTime-i);e={element:a(o.element),timeToFirstByte:u,resourceLoadDelay:s-u,resourceLoadDuration:f-s,elementRenderDelay:d-f,navigationEntry:r,lcpEntry:o},o.url&&(e.url=o.url),c&&(e.lcpResourceEntry=c)}}return Object.assign(t,{attribution:e})}(e);t(r)}),e)},ct=[800,1800],ut=function t(e){document.prerendering?b((function(){return t(e)})):"complete"!==document.readyState?addEventListener("load",(function(){return t(e)}),!0):setTimeout(e,0)},st=function(t,e){e=e||{};var r=f("TTFB"),i=l(t,r,ct,e.reportAllChanges);ut((function(){var a=n();a&&(r.value=Math.max(a.responseStart-s(),0),r.entries=[a],i(!0),u((function(){r=f("TTFB",0),(i=l(t,r,ct,e.reportAllChanges))(!0)})))}))},ft=function(t,e){st((function(e){var n=function(t){var e={waitingDuration:0,cacheDuration:0,dnsDuration:0,connectionDuration:0,requestDuration:0};if(t.entries.length){var n=t.entries[0],r=n.activationStart||0,i=Math.max((n.workerStart||n.fetchStart)-r,0),a=Math.max(n.domainLookupStart-r,0),o=Math.max(n.connectStart-r,0),c=Math.max(n.connectEnd-r,0);e={waitingDuration:i,cacheDuration:a-i,dnsDuration:o-a,connectionDuration:c-o,requestDuration:t.value-c,navigationEntry:n}}return Object.assign(t,{attribution:e})}(e);t(n)}),e)},dt={passive:!0,capture:!0},lt=new Date,mt=function(t,e){Z||(Z=e,$=t,tt=new Date,gt(removeEventListener),pt())},pt=function(){if($>=0&&$<tt-lt){var t={entryType:"first-input",name:Z.type,target:Z.target,cancelable:Z.cancelable,startTime:Z.timeStamp,processingStart:Z.timeStamp+$};et.forEach((function(e){e(t)})),et=[]}},vt=function(t){if(t.cancelable){var e=(t.timeStamp>1e12?new Date:performance.now())-t.timeStamp;"pointerdown"==t.type?function(t,e){var n=function(){mt(t,e),i()},r=function(){i()},i=function(){removeEventListener("pointerup",n,dt),removeEventListener("pointercancel",r,dt)};addEventListener("pointerup",n,dt),addEventListener("pointercancel",r,dt)}(e,t):mt(e,t)}},gt=function(t){["mousedown","keydown","touchstart","pointerdown"].forEach((function(e){return t(e,vt,dt)}))},ht=[100,300],Tt=function(t,e){e=e||{},b((function(){var n,r=S(),i=f("FID"),a=function(t){t.startTime<r.firstHiddenTime&&(i.value=t.processingStart-t.startTime,i.entries.push(t),n(!0))},o=function(t){t.forEach(a)},c=d("first-input",o);n=l(t,i,ht,e.reportAllChanges),c&&(p(v((function(){o(c.takeRecords()),c.disconnect()}))),u((function(){var r;i=f("FID"),n=l(t,i,ht,e.reportAllChanges),et=[],$=-1,Z=null,gt(addEventListener),r=a,et.push(r),pt()})))}))},yt=function(t,e){Tt((function(e){var n=function(t){var e=t.entries[0],n={eventTarget:a(e.target),eventType:e.name,eventTime:e.startTime,eventEntry:e,loadState:r(e.startTime)};return Object.assign(t,{attribution:n})}(e);t(n)}),e)};export{M as CLSThresholds,L as FCPThresholds,ht as FIDThresholds,W as INPThresholds,it as LCPThresholds,ct as TTFBThresholds,D as onCLS,w as onFCP,yt as onFID,rt as onINP,ot as onLCP,ft as onTTFB};

diff --git a/static/scripts/cookieconsent-config.js b/static/scripts/cookieconsent-config.js
@@ -1,1 +1,1 @@
-import"https://cdn.jsdelivr.net/gh/orestbida/cookieconsent@3.1.0/dist/cookieconsent.umd.js";CookieConsent.run({guiOptions:{consentModal:{layout:"box",position:"bottom center",equalWeightButtons:!0,flipButtons:!1},preferencesModal:{layout:"box",position:"right",equalWeightButtons:!0,flipButtons:!1}},categories:{necessary:{readOnly:!0},analytics:{}},language:{default:"en",autoDetect:"browser",translations:{en:{consentModal:{title:"We value your privacy",description:"This website uses cookies to ensure the best experience. Essential cookies are required for the site to function correctly, while analytics cookies help us improve our content and services. You can manage your preferences below.",acceptAllBtn:"Accept all",acceptNecessaryBtn:"Reject all",showPreferencesBtn:"Manage preferences",footer:'<a href="/privacy-policy/">Privacy Policy</a>\n<a href="/terms/">Terms and Conditions</a>'},preferencesModal:{title:"Manage Your Cookie Preferences",acceptAllBtn:"Accept all",acceptNecessaryBtn:"Reject all",savePreferencesBtn:"Save preferences",closeIconLabel:"Close modal",serviceCounterLabel:"Service|Services",sections:[{title:"How we use cookies",description:"We use cookies to provide essential website functionality, analyze traffic, and enhance user experience. You can choose to accept all cookies or manage your preferences."},{title:'Strictly Necessary Cookies <span class="pm__badge">Always Enabled</span>',description:"These cookies are essential for the website to function properly. They enable core features such as security, network management, and accessibility.",linkedCategory:"necessary"},{title:"Analytics Cookies",description:"We use analytics tools such as Google Analytics to understand visitor interactions and optimize our content. These cookies help us improve website performance and user experience.",linkedCategory:"analytics"},{title:"More information",description:'For any inquiries regarding our cookie policy or data collection practices, please <a class="cc__link" href="/contact/">contact us</a>.'}]}}}}});
+import"/scripts/cookieconsent.umd.js";CookieConsent.run({guiOptions:{consentModal:{layout:"box",position:"bottom center",equalWeightButtons:!0,flipButtons:!1},preferencesModal:{layout:"box",position:"right",equalWeightButtons:!0,flipButtons:!1}},categories:{necessary:{readOnly:!0},analytics:{}},language:{default:"en",autoDetect:"browser",translations:{en:{consentModal:{title:"We value your privacy",description:"This website uses cookies to ensure the best experience. Essential cookies are required for the site to function correctly, while analytics cookies help us improve our content and services. You can manage your preferences below.",acceptAllBtn:"Accept all",acceptNecessaryBtn:"Reject all",showPreferencesBtn:"Manage preferences",footer:'<a href="/privacy-policy/">Privacy Policy</a>\n<a href="/terms/">Terms and Conditions</a>'},preferencesModal:{title:"Manage Your Cookie Preferences",acceptAllBtn:"Accept all",acceptNecessaryBtn:"Reject all",savePreferencesBtn:"Save preferences",closeIconLabel:"Close modal",serviceCounterLabel:"Service|Services",sections:[{title:"How we use cookies",description:"We use cookies to provide essential website functionality, analyze traffic, and enhance user experience. You can choose to accept all cookies or manage your preferences."},{title:'Strictly Necessary Cookies <span class="pm__badge">Always Enabled</span>',description:"These cookies are essential for the website to function properly. They enable core features such as security, network management, and accessibility.",linkedCategory:"necessary"},{title:"Analytics Cookies",description:"We use analytics tools such as Google Analytics to understand visitor interactions and optimize our content. These cookies help us improve website performance and user experience.",linkedCategory:"analytics"},{title:"More information",description:'For any inquiries regarding our cookie policy or data collection practices, please <a class="cc__link" href="/contact/">contact us</a>.'}]}}}}});
